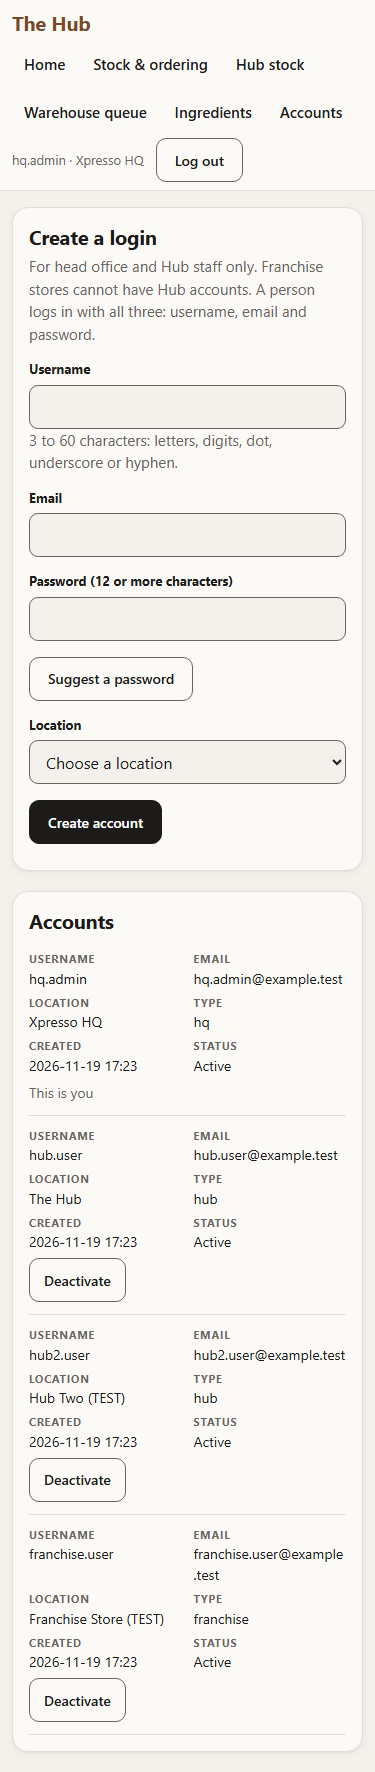
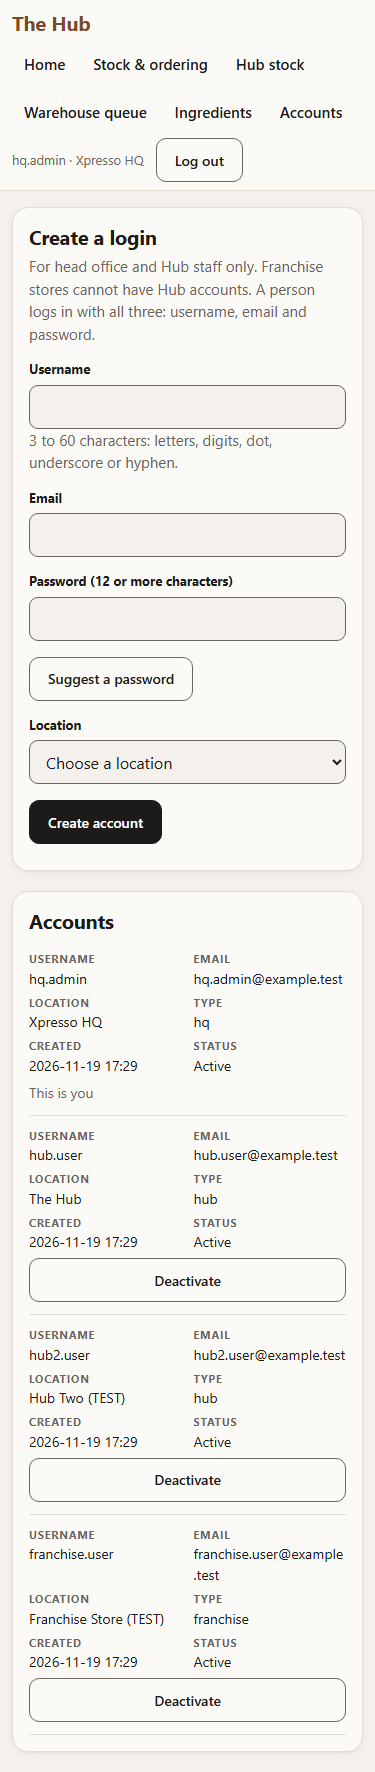
fix(T-11): critic round 2 blocker B3 + N11 (CSS only)
B3: td.num and th.num wrap on phones so the Hub stock note "more used than
received" no longer clips the On hand column. N11: the ingredients and accounts
row-action flex rule now outranks the general stacked-cell rule, so the
buttons stretch. Bundle synced, AFTER shots regenerated.

diff --git a/deploy/upload/hub/public/assets/app.css b/deploy/upload/hub/public/assets/app.css
@@ -363,7 +363,9 @@ td button { padding: 8px 14px; }
   #admin-recipes { --l1: "Item"; --l2: "Name"; --l3: "Unit"; --l4: "Status"; --l5: "Lines"; --l6: "Cost per unit (R)"; --l7: "Batches"; --l8: "Last produced"; }
   #detail-body tbody { --l1: "SKU"; --l2: "Ingredient"; --l3: "Qty"; --l4: "Unit"; --l5: "Unit cost (R)"; --l6: "Line (R)"; }
   /* row actions: full width, side by side */
-  #ing-body > tr > td:has(> button), #acc-body > tr > td:nth-child(7) { grid-column: 1 / -1; display: flex; flex-wrap: wrap; gap: 8px; align-items: center; }
+  #ing-body > tr:not(:has(td[colspan])) > td:has(> button), #acc-body > tr:not(:has(td[colspan])) > td:nth-child(7) { grid-column: 1 / -1; display: flex; flex-wrap: wrap; gap: 8px; align-items: center; }
+  /* the Hub stock "more used than received" note lives inside td.num and must wrap */
+  td.num, th.num { white-space: normal; }
   #ing-body > tr > td:has(> button) > button, #acc-body > tr > td > button { flex: 1 1 120px; }
   /* totals rows */
   #detail-body tfoot tr, #report-totals tr { display: flex; flex-wrap: wrap; justify-content: space-between; gap: 4px 16px; background: var(--surface); }

diff --git a/public/assets/app.css b/public/assets/app.css
@@ -363,7 +363,9 @@ td button { padding: 8px 14px; }
   #admin-recipes { --l1: "Item"; --l2: "Name"; --l3: "Unit"; --l4: "Status"; --l5: "Lines"; --l6: "Cost per unit (R)"; --l7: "Batches"; --l8: "Last produced"; }
   #detail-body tbody { --l1: "SKU"; --l2: "Ingredient"; --l3: "Qty"; --l4: "Unit"; --l5: "Unit cost (R)"; --l6: "Line (R)"; }
   /* row actions: full width, side by side */
-  #ing-body > tr > td:has(> button), #acc-body > tr > td:nth-child(7) { grid-column: 1 / -1; display: flex; flex-wrap: wrap; gap: 8px; align-items: center; }
+  #ing-body > tr:not(:has(td[colspan])) > td:has(> button), #acc-body > tr:not(:has(td[colspan])) > td:nth-child(7) { grid-column: 1 / -1; display: flex; flex-wrap: wrap; gap: 8px; align-items: center; }
+  /* the Hub stock "more used than received" note lives inside td.num and must wrap */
+  td.num, th.num { white-space: normal; }
   #ing-body > tr > td:has(> button) > button, #acc-body > tr > td > button { flex: 1 1 120px; }
   /* totals rows */
   #detail-body tfoot tr, #report-totals tr { display: flex; flex-wrap: wrap; justify-content: space-between; gap: 4px 16px; background: var(--surface); }
